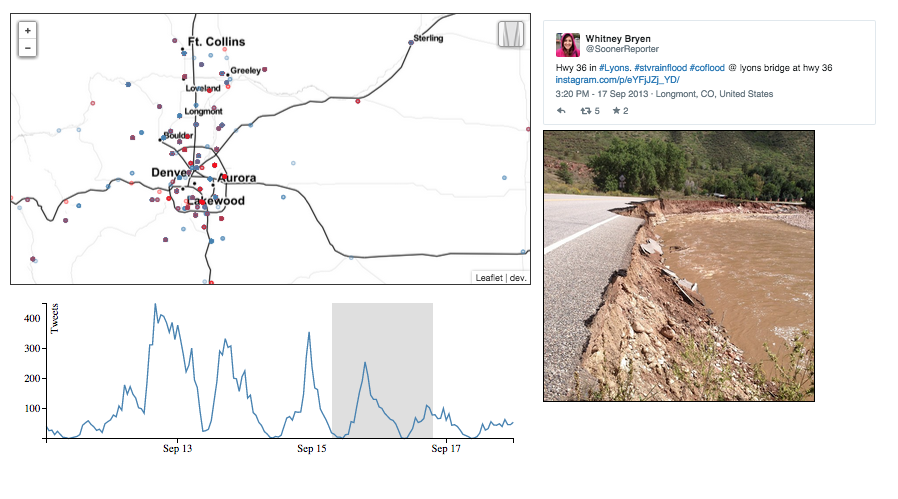
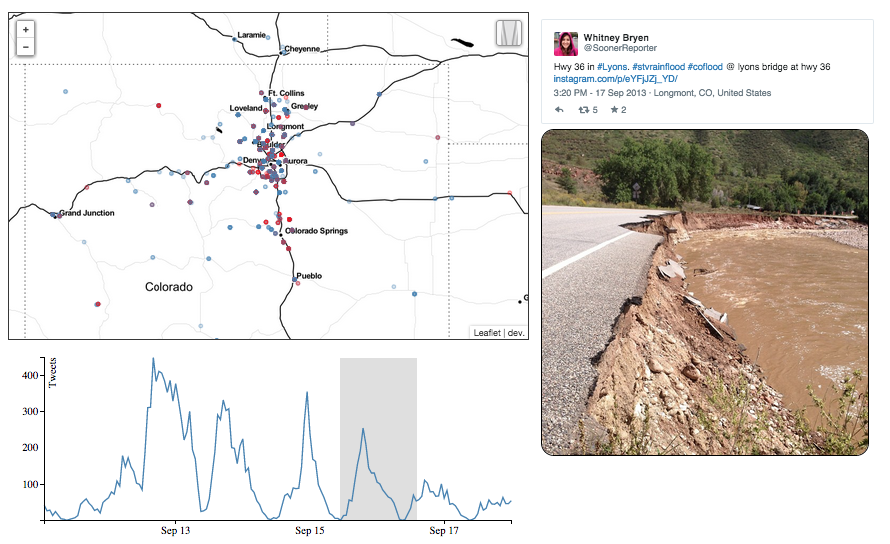
adding back in rounded edges on photo

diff --git a/js/viz6.js b/js/viz6.js
@@ -74,6 +74,7 @@ function set_sizes(){
     d3.select('#photo')
       .style('margin-left',sizes.tweetMarginLeft + 'px')
       .style('top',sizes.photoTop + 'px')
+      .style('border-radius','20px')
       .style('height',sizes.photoHeight + 'px');
 
     var scales = update_scales(sizes);
@@ -185,11 +186,8 @@ function create_timeline2(data, sizes){
               } else {
                 d3.select(this).style({fill: "steelblue", stroke: "steelblue"});
               }
-
         })
     }
-
-
 }
 
 function add_features_to_map(timeStamp,features,map){
@@ -215,8 +213,6 @@ function add_longlat_to_map(timeStamp,features,map,geoLayer){
         geoLayer.addData(feature);
     });
 }
-
-
 
 function convert_to_array(data,map){
 
@@ -271,12 +267,11 @@ function add_points_to_map(data,map){
             if (decimal_count(latitude.toString())>4 & decimal_count(longitude.toString())>4){
 
                 // Use leaflet to add circles to the map
-                L.circle([+latitude,+longitude],35,{
+                L.circle([+latitude,+longitude],130,{
                     color: 'steelblue',
                     fillColor: 'steelblue',
                     fillOpacity: 0.2,
-                    className: "tweet_location_pre_data",
-                    //radius: 15
+                    className: "tweet_location_pre_data"
                 }).addTo(map);
 
                 // add data to circles
@@ -295,7 +290,6 @@ function add_points_to_map(data,map){
                     .attr('media',feature.properties.media)
                }
             }
-
         });
     })
     // sort points
@@ -367,4 +361,3 @@ d3.json("data/event_viewer.json", function(collection) {
 
     });
 });
-
